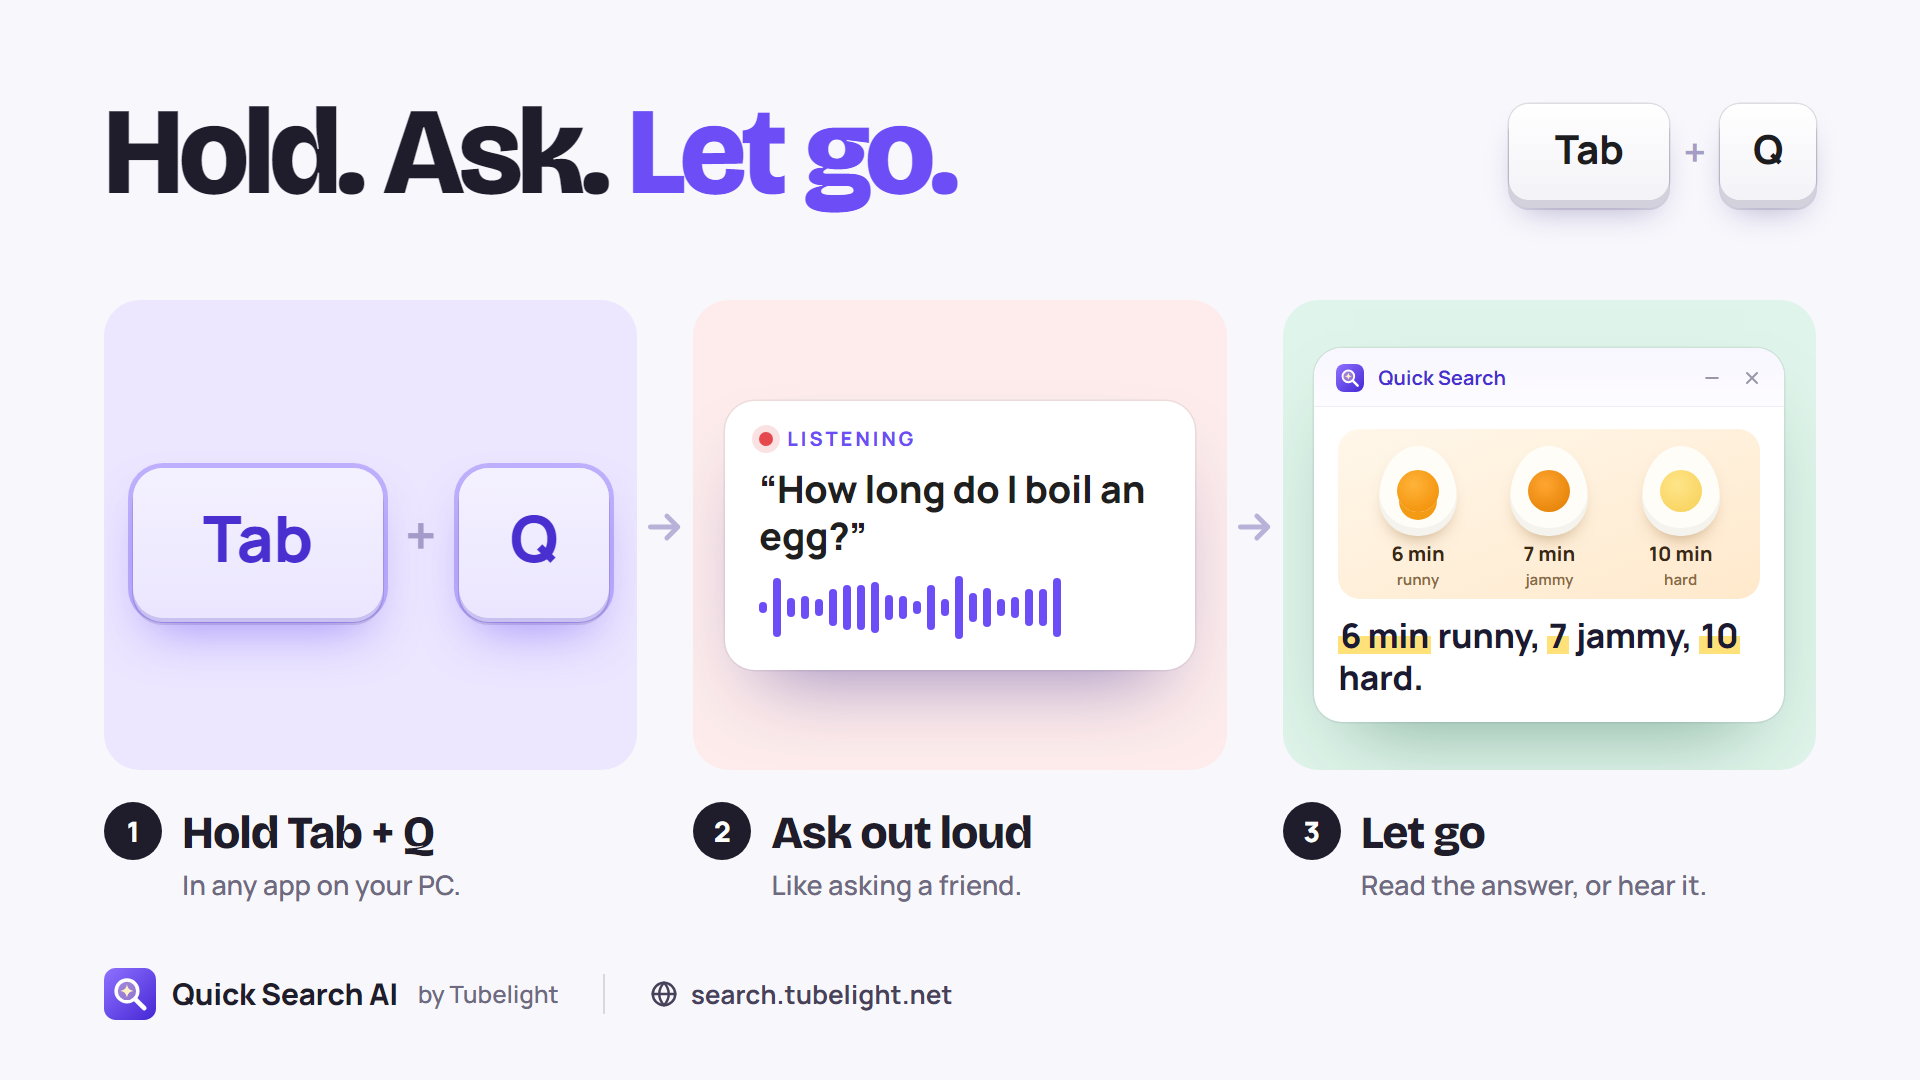
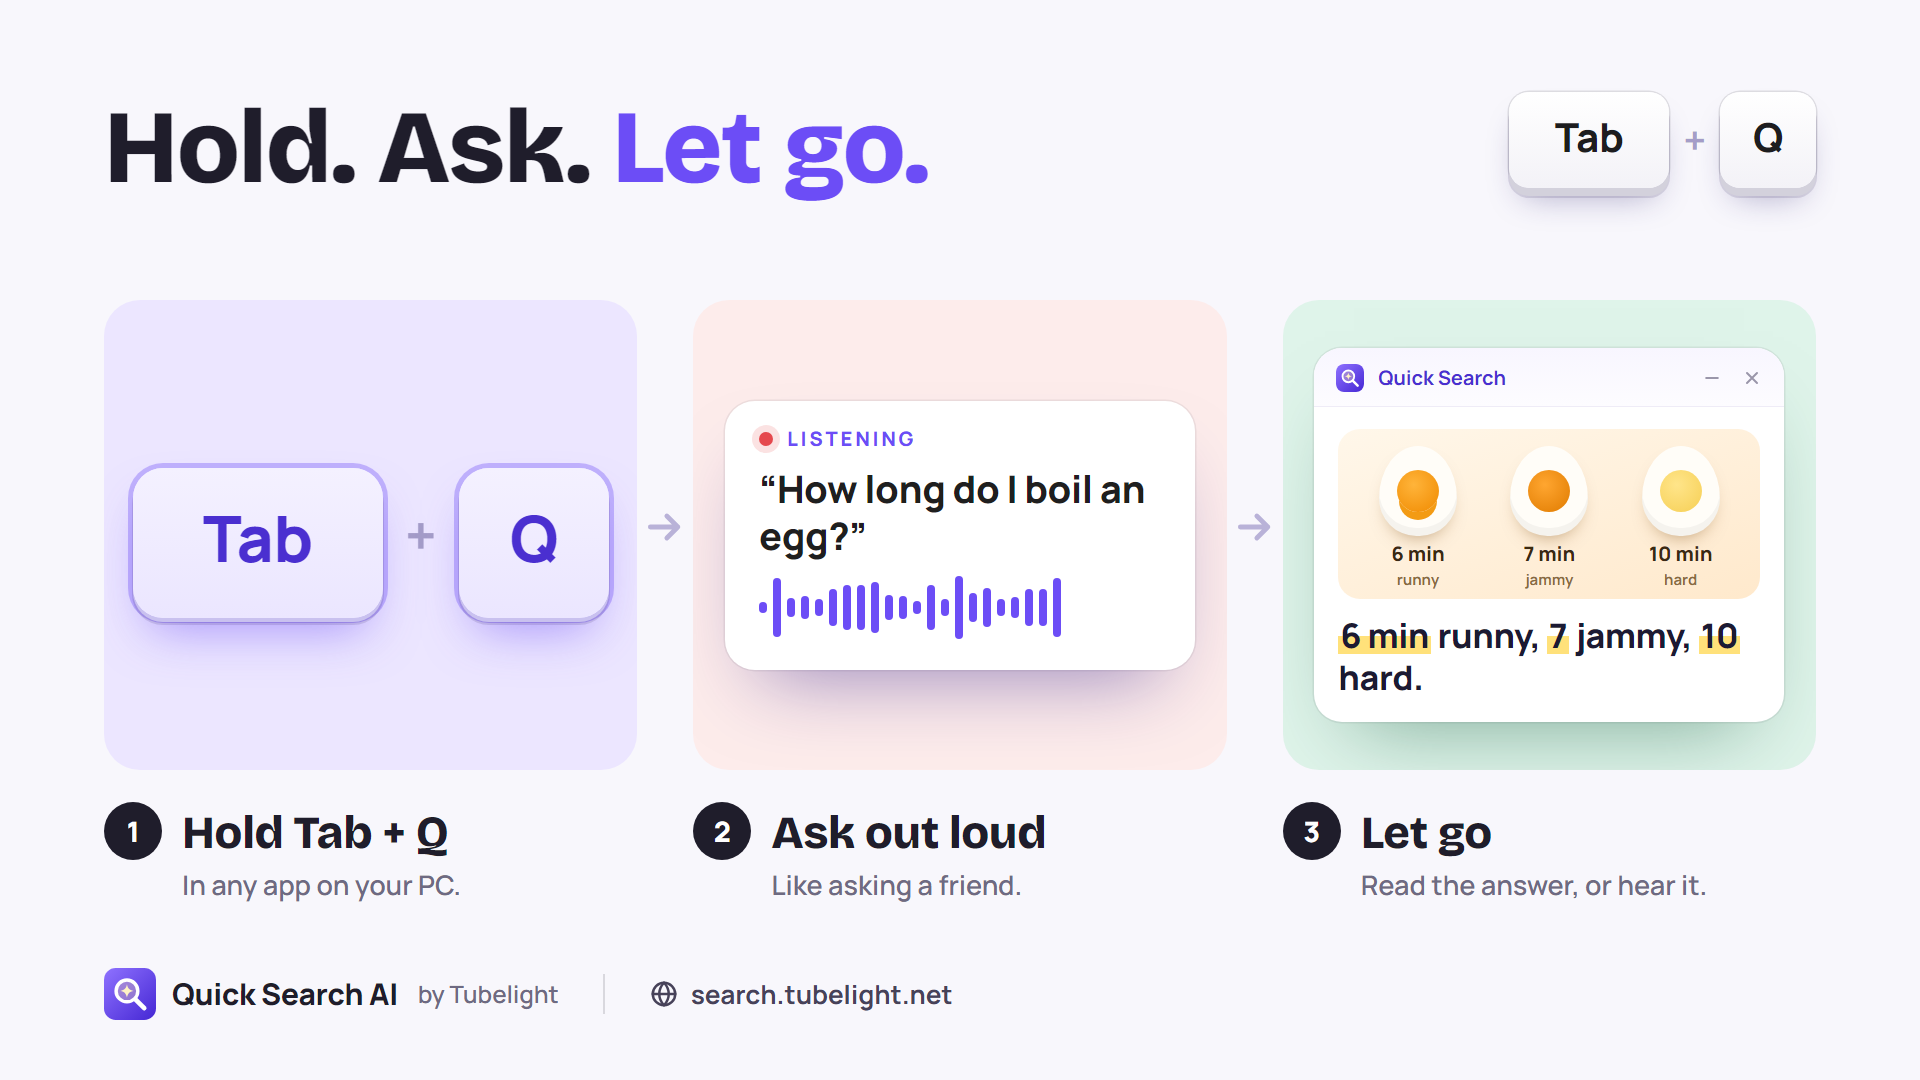
chore: save working state before SEO enhancements

diff --git a/marketing/quick-search-shots/quick-search-shots.html b/marketing/quick-search-shots/quick-search-shots.html
@@ -60,9 +60,15 @@ html.solo body > .frame { position: fixed; left: 0; top: 0; transform: none; }
 
 /* shared type */
 .eyebrow { font: 800 24px/1 var(--body); letter-spacing: .16em; text-transform: uppercase; color: var(--violet-ink); }
-.hd { font: 800 124px/.98 var(--display); letter-spacing: -.035em; color: var(--ink); text-wrap: balance; }
+.hd { font: 800 104px/1.04 var(--display); letter-spacing: -.012em; color: var(--ink); text-wrap: balance; }
+/* Bricolage switches to a narrow, tightly packed cut at big sizes. Pin the wider text cut on every
+   display line and stop squeezing the letters, so words stay easy to read at a glance. */
+.frame .hd, .frame .press, .frame .step .cap b, .frame .f6 .item b, .frame .fifty .n, .frame .fifty .w, .frame .paper h3 { font-variation-settings: "opsz" 28; }
+.frame .step .cap b, .frame .f6 .item b, .frame .paper h3, .frame .press { letter-spacing: -.005em !important; }
+.frame .fifty .n { letter-spacing: -.02em !important; }
+.frame .fifty .w { letter-spacing: -.008em !important; }
 .hd .v { color: var(--violet); }
-.hd-sm { font-size: 104px; }
+.hd-sm { font-size: 88px; }
 .lede { font: 600 38px/1.35 var(--body); color: var(--ink-2); letter-spacing: -.005em; text-wrap: pretty; }
 
 /* footer strip on every poster */
@@ -151,7 +157,7 @@ html.solo body > .frame { position: fixed; left: 0; top: 0; transform: none; }
 .f1 .key { min-width: 164px; height: 164px; padding: 0 34px 10px; border-radius: 32px; font-size: 72px; }
 .f1 .key.wide { min-width: 270px; }
 .f1 .keys .plus { font-size: 60px; }
-.f1 .hd { font-size: 96px; line-height: 1.02; }
+.f1 .hd { font-size: 80px; line-height: 1.06; }
 
 /* the PC: a thin-bezel monitor on a light stand */
 .pc { position: absolute; left: 776px; top: 92px; width: 1064px; }
@@ -260,7 +266,7 @@ html.solo body > .frame { position: fixed; left: 0; top: 0; transform: none; }
 
 /* ================= 3. TABS vs ONE ANSWER ================= */
 .f3 { background: #f8f7fc; }
-.f3 .words { position: absolute; left: 104px; top: 92px; width: 1200px; display: flex; flex-direction: column; gap: 26px; }
+.f3 .words { position: absolute; left: 104px; top: 92px; width: 1712px; display: flex; flex-direction: column; gap: 26px; }
 .f3 .browser { position: absolute; left: 104px; top: 390px; width: 1060px; height: 520px; border-radius: 26px; background: #fff; overflow: hidden; box-shadow: 0 40px 90px -50px rgba(40, 30, 110, .45), 0 0 0 1.5px rgba(32, 33, 36, .08); }
 .tabs { display: flex; align-items: flex-end; gap: 4px; height: 66px; padding: 0 16px; background: #e9e7ef; }
 .tab { flex: 0 0 auto; display: flex; align-items: center; gap: 8px; height: 50px; padding: 0 12px; border-radius: 12px 12px 0 0; background: #dedbe6; overflow: hidden; }
@@ -371,7 +377,7 @@ html.solo body > .frame { position: fixed; left: 0; top: 0; transform: none; }
 .f7 .bg { position: absolute; inset: 0; background: radial-gradient(1100px 800px at 85% 15%, rgba(255, 225, 122, .28), rgba(255, 225, 122, 0) 60%), linear-gradient(160deg, #6c4df6, #4a2fd0 70%, #3a20b8); }
 .f7 .fifty { position: absolute; left: 96px; top: 40px; display: flex; flex-direction: column; }
 .f7 .fifty .n { font: 800 520px/.9 var(--display); letter-spacing: -.035em; color: #fff; text-shadow: 0 30px 80px rgba(20, 8, 90, .35); }
-.f7 .fifty .w { margin-top: -10px; margin-left: 14px; font: 800 88px/1 var(--display); letter-spacing: -.03em; color: #fff; }
+.f7 .fifty .w { margin-top: -10px; margin-left: 14px; font: 800 74px/1 var(--display); letter-spacing: -.03em; color: #fff; }
 .f7 .fifty .w em { font-style: normal; color: var(--hl); }
 .f7 .facts { position: absolute; left: 1080px; top: 120px; width: 740px; display: flex; flex-direction: column; gap: 22px; }
 .f7 .fact { display: flex; align-items: center; gap: 26px; padding: 28px 32px; border-radius: 26px; background: rgba(255, 255, 255, .1); box-shadow: inset 0 0 0 1.5px rgba(255, 255, 255, .16); }

diff --git a/marketing/quick-search-shots/template.html b/marketing/quick-search-shots/template.html
@@ -60,9 +60,15 @@ html.solo body > .frame { position: fixed; left: 0; top: 0; transform: none; }
 
 /* shared type */
 .eyebrow { font: 800 24px/1 var(--body); letter-spacing: .16em; text-transform: uppercase; color: var(--violet-ink); }
-.hd { font: 800 124px/.98 var(--display); letter-spacing: -.035em; color: var(--ink); text-wrap: balance; }
+.hd { font: 800 104px/1.04 var(--display); letter-spacing: -.012em; color: var(--ink); text-wrap: balance; }
+/* Bricolage switches to a narrow, tightly packed cut at big sizes. Pin the wider text cut on every
+   display line and stop squeezing the letters, so words stay easy to read at a glance. */
+.frame .hd, .frame .press, .frame .step .cap b, .frame .f6 .item b, .frame .fifty .n, .frame .fifty .w, .frame .paper h3 { font-variation-settings: "opsz" 28; }
+.frame .step .cap b, .frame .f6 .item b, .frame .paper h3, .frame .press { letter-spacing: -.005em !important; }
+.frame .fifty .n { letter-spacing: -.02em !important; }
+.frame .fifty .w { letter-spacing: -.008em !important; }
 .hd .v { color: var(--violet); }
-.hd-sm { font-size: 104px; }
+.hd-sm { font-size: 88px; }
 .lede { font: 600 38px/1.35 var(--body); color: var(--ink-2); letter-spacing: -.005em; text-wrap: pretty; }
 
 /* footer strip on every poster */
@@ -151,7 +157,7 @@ html.solo body > .frame { position: fixed; left: 0; top: 0; transform: none; }
 .f1 .key { min-width: 164px; height: 164px; padding: 0 34px 10px; border-radius: 32px; font-size: 72px; }
 .f1 .key.wide { min-width: 270px; }
 .f1 .keys .plus { font-size: 60px; }
-.f1 .hd { font-size: 96px; line-height: 1.02; }
+.f1 .hd { font-size: 80px; line-height: 1.06; }
 
 /* the PC: a thin-bezel monitor on a light stand */
 .pc { position: absolute; left: 776px; top: 92px; width: 1064px; }
@@ -260,7 +266,7 @@ html.solo body > .frame { position: fixed; left: 0; top: 0; transform: none; }
 
 /* ================= 3. TABS vs ONE ANSWER ================= */
 .f3 { background: #f8f7fc; }
-.f3 .words { position: absolute; left: 104px; top: 92px; width: 1200px; display: flex; flex-direction: column; gap: 26px; }
+.f3 .words { position: absolute; left: 104px; top: 92px; width: 1712px; display: flex; flex-direction: column; gap: 26px; }
 .f3 .browser { position: absolute; left: 104px; top: 390px; width: 1060px; height: 520px; border-radius: 26px; background: #fff; overflow: hidden; box-shadow: 0 40px 90px -50px rgba(40, 30, 110, .45), 0 0 0 1.5px rgba(32, 33, 36, .08); }
 .tabs { display: flex; align-items: flex-end; gap: 4px; height: 66px; padding: 0 16px; background: #e9e7ef; }
 .tab { flex: 0 0 auto; display: flex; align-items: center; gap: 8px; height: 50px; padding: 0 12px; border-radius: 12px 12px 0 0; background: #dedbe6; overflow: hidden; }
@@ -371,7 +377,7 @@ html.solo body > .frame { position: fixed; left: 0; top: 0; transform: none; }
 .f7 .bg { position: absolute; inset: 0; background: radial-gradient(1100px 800px at 85% 15%, rgba(255, 225, 122, .28), rgba(255, 225, 122, 0) 60%), linear-gradient(160deg, #6c4df6, #4a2fd0 70%, #3a20b8); }
 .f7 .fifty { position: absolute; left: 96px; top: 40px; display: flex; flex-direction: column; }
 .f7 .fifty .n { font: 800 520px/.9 var(--display); letter-spacing: -.035em; color: #fff; text-shadow: 0 30px 80px rgba(20, 8, 90, .35); }
-.f7 .fifty .w { margin-top: -10px; margin-left: 14px; font: 800 88px/1 var(--display); letter-spacing: -.03em; color: #fff; }
+.f7 .fifty .w { margin-top: -10px; margin-left: 14px; font: 800 74px/1 var(--display); letter-spacing: -.03em; color: #fff; }
 .f7 .fifty .w em { font-style: normal; color: var(--hl); }
 .f7 .facts { position: absolute; left: 1080px; top: 120px; width: 740px; display: flex; flex-direction: column; gap: 22px; }
 .f7 .fact { display: flex; align-items: center; gap: 26px; padding: 28px 32px; border-radius: 26px; background: rgba(255, 255, 255, .1); box-shadow: inset 0 0 0 1.5px rgba(255, 255, 255, .16); }

diff --git a/components/v5/v5.css b/components/v5/v5.css
@@ -66,6 +66,14 @@
 .v5 .wbar{display:flex;align-items:center;justify-content:space-between;gap:10px;min-height:42px;padding:0 10px 0 14px;border-bottom:1px solid #F0ECF5;font-size:13.5px;font-weight:600;color:#3A3655}
 .v5 .wbody{flex:1;overflow:hidden;padding:18px 20px;display:flex;flex-direction:column;gap:10px;color:#3A3655;font-size:15px;line-height:1.7}
 .v5 .selx{background:#C9DEFF;color:#1B2A4A;border-radius:3px;padding:1px 0;box-decoration-break:clone;-webkit-box-decoration-break:clone}
+/* The page you are reading is a dark window, so the white Tubelight panel beside it reads at a glance as the thing that appeared. */
+.v5 .wdoc{background:#17161F;box-shadow:0 1px 2px rgba(10,8,30,.3),0 22px 46px -18px rgba(20,14,60,.55)}
+.v5 .wdoc .wbar{background:#1F1E29;border-bottom-color:#2B2A37;color:#C9C5DA}
+.v5 .wdoc .wctl{display:flex;gap:14px;flex:none;font-size:12px;font-weight:500;color:#77738C}
+.v5 .wdoc .wbody{color:#B4B0C6}
+.v5 .wdoc .wkick{margin:0;font-size:12px;font-weight:600;letter-spacing:.12em;text-transform:uppercase;color:#8A86A0}
+.v5 .wdoc .wtitle{margin:0;font-size:21px;line-height:1.2;font-weight:600;letter-spacing:-.02em;color:#F2F0FA}
+.v5 .wdoc .selx{background:#3D63DD;color:#FFFFFF}
 .v5 .pbody{flex:1;display:flex;flex-direction:column;gap:10px;padding:12px}
 .v5 .pvid{position:relative;aspect-ratio:16 / 9;border-radius:10px;overflow:hidden;background:#151229}
 .v5 .pvid video{display:block;width:100%;height:100%;object-fit:contain}

diff --git a/components/v5/Hero.tsx b/components/v5/Hero.tsx
@@ -474,11 +474,11 @@ export function Hero() {
                   <span aria-hidden="true" style={{ width: 12, height: 12, borderRadius: 4, flex: "none", background: tp.color }} />
                   <span style={{ whiteSpace: "nowrap", overflow: "hidden", textOverflow: "ellipsis" }}>{tp.app}</span>
                 </span>
-                <span aria-hidden="true" style={{ display: "flex", gap: 14, color: "#A29DB5", fontSize: 12, fontWeight: 500, flex: "none" }}>— ▢ ✕</span>
+                <span className="wctl" aria-hidden="true">— ▢ ✕</span>
               </div>
               <div className="wbody">
-                <p style={{ margin: 0, fontSize: 12, fontWeight: 600, letterSpacing: "0.12em", textTransform: "uppercase", color: "#6F6B86" }}>{tp.kicker}</p>
-                <p className="disp" style={{ margin: 0, fontSize: 21, lineHeight: 1.2, fontWeight: 600, letterSpacing: "-0.02em", color: "#221E3F" }}>{tp.title}</p>
+                <p className="wkick">{tp.kicker}</p>
+                <p className="disp wtitle">{tp.title}</p>
                 <p className="wlead" style={{ margin: 0 }}>{tp.lead}</p>
                 <p style={{ margin: 0 }}>
                   <span className="selx">{tp.sel}</span> {tp.tail}

diff --git a/next.config.ts b/next.config.ts
@@ -1,8 +1,13 @@
 import type { NextConfig } from "next";
+import { PHASE_DEVELOPMENT_SERVER } from "next/constants";
 
-const nextConfig: NextConfig = {
-  reactStrictMode: true,
-  output: "standalone",
-};
-
-export default nextConfig;
+// `next dev` and `next build` each write their own output folder. When both shared `.next`,
+// running a build while the dev server was up deleted the dev chunks and the page failed with
+// "Cannot find module './611.js'".
+export default function config(phase: string): NextConfig {
+  return {
+    reactStrictMode: true,
+    output: "standalone",
+    distDir: phase === PHASE_DEVELOPMENT_SERVER ? ".next-dev" : ".next",
+  };
+}
